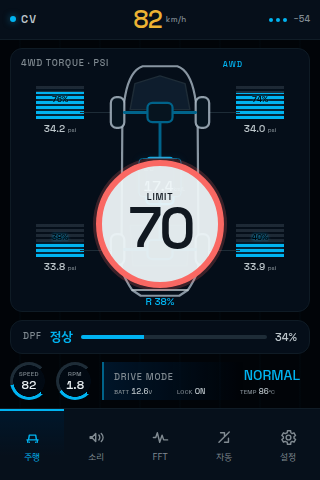
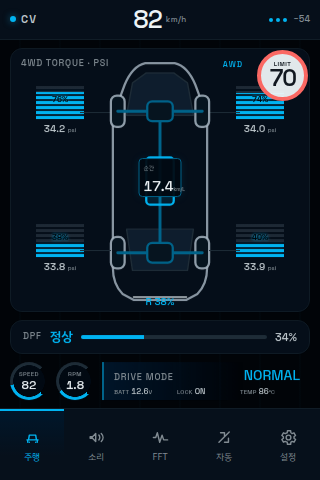
fix: correct Tucson AWD vehicle proportions

diff --git a/ui/prototype/index.html b/ui/prototype/index.html
@@ -32,14 +32,14 @@
           <div class="wheel-meter wheel-meter--fr" style="--wheel-drive: 74%"><em>74%</em><span class="torque-stack"></span><strong>34.0 <small>psi</small></strong></div>
           <div class="vehicle-plan">
             <svg viewBox="0 0 112 246" aria-hidden="true">
-              <path class="vehicle-shell" d="M38 4C29 7 23 18 20 34L17 52 16 207c0 8 2 15 11 29l9 6h40l9-6c9-14 11-21 11-29L95 52l-3-18C89 18 83 7 74 4Z"/>
-              <rect class="vehicle-wheel" x="5" y="36" width="14" height="32" rx="6"/><rect class="vehicle-wheel" x="93" y="36" width="14" height="32" rx="6"/>
-              <rect class="vehicle-wheel" x="5" y="178" width="14" height="32" rx="6"/><rect class="vehicle-wheel" x="93" y="178" width="14" height="32" rx="6"/>
-              <path class="vehicle-glass" d="M30 22 56 14l26 8 5 27H25Z"/><path class="vehicle-glass" d="M25 169h62l-3 42H28Z"/>
-              <path class="driveline" d="M19 52h24m26 0h24M56 60v122M19 194h24m26 0h24"/>
-              <rect class="differential" x="43" y="42" width="26" height="20" rx="5"/><rect class="differential" x="43" y="184" width="26" height="20" rx="5"/>
+              <path class="vehicle-shell" d="M41 3C32 5 25 13 20 25L13 44 8 65v146c0 10 3 20 10 27l11 6h54l11-6c7-7 10-17 10-27V65l-5-21-7-19C87 13 80 5 71 3Z"/>
+              <rect class="vehicle-wheel" x="6" y="36" width="14" height="32" rx="6"/><rect class="vehicle-wheel" x="92" y="36" width="14" height="32" rx="6"/>
+              <rect class="vehicle-wheel" x="6" y="180" width="14" height="32" rx="6"/><rect class="vehicle-wheel" x="92" y="180" width="14" height="32" rx="6"/>
+              <path class="vehicle-glass" d="M28 23 42 13h28l14 10 6 33H22Z"/><path class="vehicle-glass" d="M22 172h68l-6 42H28Z"/>
+              <path class="driveline" d="M13 52h43m0 0h43M56 60v126M13 196h43m0 0h43"/>
+              <rect class="differential" x="43" y="42" width="26" height="20" rx="5"/><rect class="differential" x="43" y="186" width="26" height="20" rx="5"/>
               <rect class="coupling" x="42" y="99" width="28" height="48" rx="4"/>
-              <path class="vehicle-bumper" d="M27 236h58"/>
+              <path class="vehicle-bumper" d="M29 241h54"/>
             </svg>
             <div class="vehicle-instant" aria-label="순간 연비 17.4 킬로미터 매 리터"><span>순간</span><strong>17.4</strong><small>km/L</small></div>
             <b class="rear-coupling">R 38%</b>

diff --git a/ui/prototype/canview.css b/ui/prototype/canview.css
@@ -370,8 +370,8 @@ button { cursor: pointer; }
 }
 
 .vehicle-plan svg {
-  width: 108px;
-  height: 238px;
+  width: 110px;
+  height: 242px;
   fill: none;
   stroke: var(--color-ink-2);
   stroke-width: 2.3;

diff --git a/ui/lvgl/canview_ui.c b/ui/lvgl/canview_ui.c
@@ -632,10 +632,11 @@ static void create_drive_screen(void)
     lv_obj_clear_flag(vehicle, LV_OBJ_FLAG_SCROLLABLE);
 
     static lv_point_t vehicle_outline[] = {
-        {38, 4},  {29, 7},  {23, 18},  {20, 34},  {17, 52},
-        {16, 207}, {18, 224}, {27, 236}, {36, 242}, {76, 242},
-        {85, 236}, {94, 224}, {96, 207}, {95, 52},  {92, 34},
-        {89, 18}, {83, 7},  {74, 4},  {38, 4}};
+        {41, 3},  {32, 5},  {25, 13},  {20, 25},  {13, 44},
+        {8, 65},   {8, 211},  {9, 221},  {13, 231}, {18, 238},
+        {29, 244}, {83, 244}, {94, 238}, {99, 231}, {103, 221},
+        {104, 211}, {104, 65}, {99, 44},  {92, 25},  {87, 13},
+        {80, 5},   {71, 3},   {41, 3}};
     lv_obj_t *outline = lv_line_create(vehicle);
     lv_line_set_points(outline, vehicle_outline,
                        sizeof(vehicle_outline) / sizeof(vehicle_outline[0]));
@@ -643,8 +644,8 @@ static void create_drive_screen(void)
     lv_obj_set_style_line_width(outline, 2, 0);
     lv_obj_set_style_line_rounded(outline, true, 0);
 
-    static const lv_coord_t car_wheel_x[CANVIEW_UI_WHEEL_COUNT] = {5, 93, 5, 93};
-    static const lv_coord_t car_wheel_y[CANVIEW_UI_WHEEL_COUNT] = {36, 36, 178, 178};
+    static const lv_coord_t car_wheel_x[CANVIEW_UI_WHEEL_COUNT] = {6, 92, 6, 92};
+    static const lv_coord_t car_wheel_y[CANVIEW_UI_WHEEL_COUNT] = {36, 36, 180, 180};
     for (uint8_t i = 0; i < CANVIEW_UI_WHEEL_COUNT; ++i) {
         lv_obj_t *car_wheel = lv_obj_create(vehicle);
         lv_obj_remove_style_all(car_wheel);
@@ -657,12 +658,12 @@ static void create_drive_screen(void)
         lv_obj_set_style_radius(car_wheel, 6, 0);
     }
 
-    static const lv_coord_t axle_y[] = {52, 194};
+    static const lv_coord_t axle_y[] = {52, 196};
     for (uint8_t i = 0; i < 2U; ++i) {
         lv_obj_t *axle = lv_obj_create(vehicle);
         lv_obj_remove_style_all(axle);
-        lv_obj_set_pos(axle, 19, axle_y[i]);
-        lv_obj_set_size(axle, 74, 3);
+        lv_obj_set_pos(axle, 13, axle_y[i]);
+        lv_obj_set_size(axle, 86, 3);
         lv_obj_set_style_bg_color(axle, CANVIEW_COLOR_ACCENT_LINE, 0);
         lv_obj_set_style_bg_opa(axle, LV_OPA_COVER, 0);
 
@@ -680,7 +681,7 @@ static void create_drive_screen(void)
     lv_obj_t *shaft = lv_obj_create(vehicle);
     lv_obj_remove_style_all(shaft);
     lv_obj_set_pos(shaft, 55, 60);
-    lv_obj_set_size(shaft, 3, 122);
+    lv_obj_set_size(shaft, 3, 126);
     lv_obj_set_style_bg_color(shaft, CANVIEW_COLOR_ACCENT_LINE, 0);
     lv_obj_set_style_bg_opa(shaft, LV_OPA_COVER, 0);
 
@@ -695,14 +696,14 @@ static void create_drive_screen(void)
     lv_obj_set_style_radius(coupling, 4, 0);
 
     static lv_point_t front_window_points[] = {
-        {30, 22}, {56, 14}, {82, 22}, {87, 49}, {25, 49}, {30, 22}};
+        {28, 23}, {42, 13}, {70, 13}, {84, 23}, {90, 56}, {22, 56}, {28, 23}};
     lv_obj_t *front_window = lv_line_create(vehicle);
     lv_line_set_points(front_window, front_window_points,
                        sizeof(front_window_points) / sizeof(front_window_points[0]));
     lv_obj_set_style_line_color(front_window, CANVIEW_COLOR_RULE, 0);
     lv_obj_set_style_line_width(front_window, 1, 0);
     static lv_point_t rear_window_points[] = {
-        {25, 169}, {87, 169}, {84, 211}, {28, 211}, {25, 169}};
+        {22, 172}, {90, 172}, {84, 214}, {28, 214}, {22, 172}};
     lv_obj_t *rear_window = lv_line_create(vehicle);
     lv_line_set_points(rear_window, rear_window_points,
                        sizeof(rear_window_points) / sizeof(rear_window_points[0]));

diff --git a/docs/ui-design.md b/docs/ui-design.md
@@ -60,7 +60,7 @@ CANView는 순정 계기판을 대체하지 않는 320×480 세로형 보조 화
 
 화면 면적은 4WD가 압도적으로 크고 DPF, 속도·RPM 순으로 작아진다. 352 px의 실제 본문 높이 중 264 px를 4WD에 할당해 차량과 구동계가 약 75%를 차지하게 한다.
 
-- 4WD: 첨부한 순정 화면처럼 중앙 차량 outline 안에 앞·뒤 differential와 propeller shaft를 그리고, 네 바퀴 바깥쪽에 8단 수평 분절 torque bar를 대칭 배치한다. 각 bar 아래에는 해당 바퀴 공기압 `psi`를 둔다. 공개 DBC만으로 실제 바퀴 토크가 확정되지 않았으므로 데이터 모델에서는 계속 `구동 지수`로 관리한다.
+- 4WD: 첨부한 순정 화면처럼 중앙 차량 outline 안에 앞·뒤 differential와 propeller shaft를 그리고, 네 바퀴 바깥쪽에 8단 수평 분절 torque bar를 대칭 배치한다. 각 bar 아래에는 해당 바퀴 공기압 `psi`를 둔다. [2017 Tucson TL 취급설명서 제원](https://www.hyundaicanada.com/-/media/hyundai/feature/ownerssection/manuals/english/2017/tuscon/tl-can-eng-8.pdf)의 전장 4,475 mm, 전폭 1,850 mm, 축거 2,670 mm, 전·후 윤거 1,608/1,620 mm를 기준으로 화면 좌표의 타이어 외곽 `100×242`, 축간 `144`, 좌우 휠 중심 간격 `86`으로 다시 맞췄다. 후면은 실제 리프트게이트 SUV처럼 평평한 끝단과 짧은 범퍼 모서리로 표현한다. 공개 DBC만으로 실제 바퀴 토크가 확정되지 않았으므로 데이터 모델에서는 계속 `구동 지수`로 관리한다.
 - 연비: `순간 연비`만 차량 중앙 coupling 위치의 작은 정보 창에 표시한다. 신호가 없으면 `—`로 유지한다. 평균연비는 주행 화면에 표시하지 않는다.
 - DPF: 정상일 때는 작은 청색 상태와 부하값만 표시하고, 경고가 확인될 때만 amber/red 상태로 바꾼다. DBC에는 경고등 후보만 있으므로 현재 부하율은 별도 진단 신호가 검증되기 전 데모값이다.
 - 속도·RPM: 같은 원형 arc 문법을 쓰되 화면 하단의 보조 계기로 축소한다. 현재 속도는 상단에도 항상 남는다.
